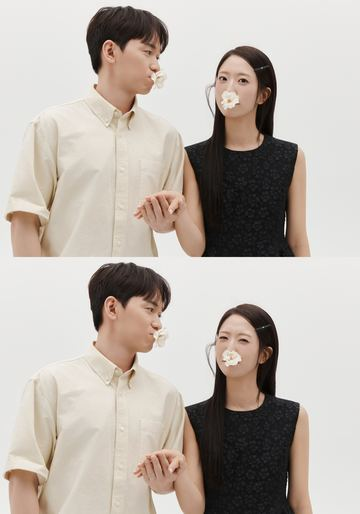
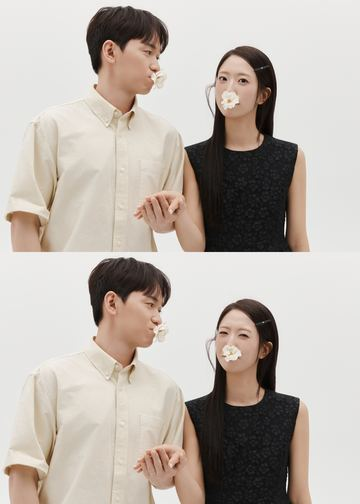
14_15 합친 사진을 기본 세로 비율로 맞춤, 갤러리 화살표 높이 절반
- 초과 162px(원본 기준)을 14번 하단 81px, 15번 하단 81px씩 잘라 1072×1500 (01번과 동일 비율)
- 썸네일 좌우 화살표 높이 38% → 19%

Claude-Session: https://claude.ai/code/session_01SqxhMxLTR3WYodh27SDQ62

diff --git a/assets/css/style.css b/assets/css/style.css
@@ -563,7 +563,7 @@ a { color: inherit; text-decoration: none; }
   transition: color .2s, opacity .2s;
 }
 .gallery__arrow svg {
-  width: 12px; height: 38%;
+  width: 12px; height: 19%;
   fill: none; stroke: currentColor; stroke-width: 1.4;
   stroke-linecap: round; stroke-linejoin: round;
   vector-effect: non-scaling-stroke;
